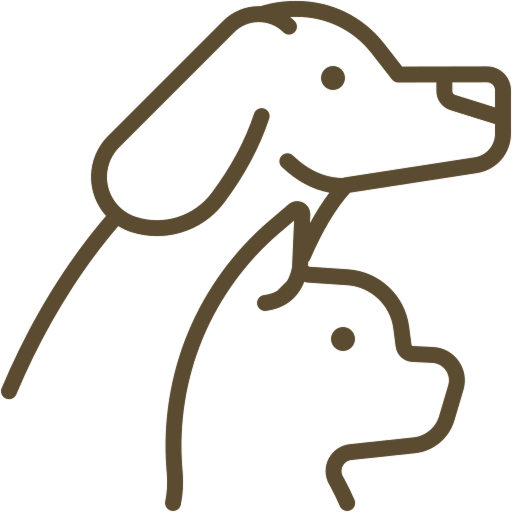
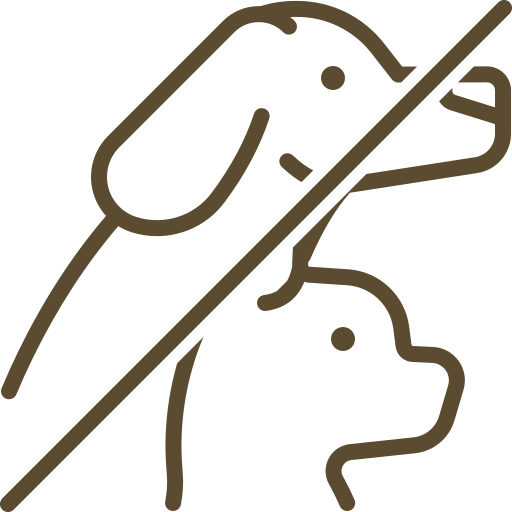
[Add] Свежие изменения от Delta

Changed region(s): [[0.4062, 0.0, 1.0, 0.5938], [0.0, 0.5625, 0.4375, 1.0]]

diff --git a/index.html b/index.html
@@ -166,47 +166,47 @@
 		</div>
 		<div id="services">
 
-			<div class="service" onclick="carousel.show('id')">
+			<div class="service" onclick="carousel.call('id')">
 				<img class="service-img" src="./images/service_icons/room-service.png" alt="Room service">
 				<p class="service-description">Room service</p>
 			</div>
 
-			<div class="service" onclick="carousel.show('service-popup-kitchenette')">
+			<div class="service" onclick="carousel.call('service-popup-kitchenette')">
 				<img class="service-img" src="./images/service_icons/kitchen.png" alt="Kitchen">
 				<p class="service-description">Kitchen</p>
 			</div>
 
-			<div class="service" onclick="carousel.show('service-popup-breakfast')">
+			<div class="service" onclick="carousel.call('service-popup-breakfast')">
 				<img class="service-img" src="./images/service_icons/breakfast.png" alt="Breakfast">
 				<p class="service-description">Breakfast</p>
 			</div>
 
-			<div class="service" onclick="carousel.show('service-popup-reception')">
+			<div class="service" onclick="carousel.call('service-popup-reception')">
 				<img class="service-img" src="./images/service_icons/reception.png" alt="Reception">
 				<p class="service-description">Reception</p>
 			</div>
 
-			<div class="service" onclick="carousel.show('id')">
+			<div class="service" onclick="carousel.call('service-popup-bed')">
 				<img class="service-img" src="./images/service_icons/towel.png" alt="Bed Linen and Hand Towels">
 				<p class="service-description">Bed Linen and Hand Towels</p>
 			</div>
 
-			<div class="service" onclick="carousel.show('id')">
+			<div class="service" onclick="carousel.call('id')">
 				<img class="service-img" src="./images/service_icons/washing-machine.png" alt="Laundrette Facilities">
 				<p class="service-description">Laundrette Facilities</p>
 			</div>
 
-			<div class="service" onclick="carousel.show('id')">
+			<div class="service" onclick="carousel.call('id')">
 				<img class="service-img" src="./images/service_icons/inventory.png" alt="Inventory">
 				<p class="service-description">Inventory</p>
 			</div>
 
-			<div class="service" onclick="carousel.show('id')">
+			<div class="service" onclick="carousel.call('service-popup-internet')">
 				<img class="service-img" src="./images/service_icons/internet.png" alt="Internet">
 				<p class="service-description">Internet</p>
 			</div>
 
-			<div class="service" onclick="carousel.show('id')">
+			<div class="service" onclick="carousel.call('service-popup-pets')">
 				<img class="service-img" src="./images/service_icons/pets.png" alt="Pets">
 				<p class="service-description">Pets</p>
 			</div>
@@ -328,35 +328,46 @@
 			</div>
 		</div>
 	</div>
+	
 
-	<!-- Slider for the service popups -->
 
-	<!-- TODO: write wrapper here. by ckicking on the wrapper, divs below should be removed by display	-->
-	<!-- Complete function ShowCarousel in the service_popups.js -->
 
-	<div class="service-popup" id="service-popup-kitchenette">
-    <div>
-      <p class="service-popup-tittle">Kitchenette</p>
-      <p class="service-popup-text">Every one of our apartments has an open plan Kitchenette fitted.<br>Here you can put your kitchen skills to the test</p>
-    </div>
-  </div>
+	<div id="service-popups-wrapper" onclick="carousel.hide()"></div>
 
-	<div class="service-popup" id="service-popup-breakfast">
-    <div>
-      <p class="service-popup-tittle">Breakfast</p>
-      <p class="service-popup-text">Breakfast will be from 7:00-9:30 am<br>in the hotel and costs 14€ per person</p>
-    </div>
-  </div>
+	<div class="service-popup" id="service-popup-kitchenette" onclick="carousel.call('service-popup-kitchenette')">
+		<p class="service-popup-tittle">Kitchenette</p>
+		<p class="service-popup-text">Every one of our apartments has an open plan Kitchenette fitted.<br>Here you can put your kitchen skills to the test</p>
+	</div>
 
-	<div class="service-popup" id="service-popup-reception">
-    <div class="service-popup-body">
-      <p class="service-popup-tittle">Reception</p>
-			<div class="service-popup-text">
-				<p class="service-popup-body-text">Hotel Reception - Opening Times</p>
-        <p class="service-popup-text">Monday to Sunday from 7:00 to 15:00 h<br>Check-in after reception time is possible by a Check-in-Terminal</p>
-			</div>
-    </div>
-  </div>
+	<div class="service-popup" id="service-popup-breakfast" onclick="carousel.call('service-popup-breakfast')">
+		<p class="service-popup-tittle">Breakfast</p>
+		<p class="service-popup-text">Breakfast will be from 7:00-9:30 am<br>in the hotel and costs 14€ per person</p>
+	</div>
+
+	<div class="service-popup" id="service-popup-reception" onclick="carousel.call('service-popup-reception')">
+		<p class="service-popup-tittle">Reception</p>
+		<div class="service-popup-info-body">
+			<p class="service-popup-subtittle">Hotel Reception - Opening Times</p>
+			<p class="service-popup-text">Monday to Sunday from 7:00 to 15:00 h<br>Check-in after reception time is possible by a Check-in-Terminal</p>
+		</div>
+	</div>
+
+	<div class="service-popup" id="service-popup-bed" onclick="carousel.call('service-popup-bed')">
+		<p class="service-popup-tittle">Bed Linen and Hand Towels</p>
+		<p class="service-popup-text">Of course there are towels and bed linen in your apartment</p>
+	</div>
+
+
+	<div class="service-popup" id="service-popup-internet" onclick="carousel.call('service-popup-internet')">
+		<p class="service-popup-tittle">Internet</p>
+		<p class="service-popup-text">High Speed Wireless LAN for free</p>
+	</div>
+
+	<div class="service-popup" id="service-popup-pets" onclick="carousel.call('service-popup-pets')">
+		<p class="service-popup-tittle">Pets</p>
+		<p class="service-popup-text">No pets allowed</p>
+	</div>
+
 
 	<script src="./animations.js"></script>
 	<script src="./service_popups.js"></script>

diff --git a/service_popups.js b/service_popups.js
@@ -1,55 +1,76 @@
-
-
-function ShowCarousel(name)
-{
-  // .service-popup-center
-  let popup = document.getElementById(name);
-  popup.classList.add("service-popup-center");
-}
-
-
-
-
-
 class Carousel {
-  constructor () {
-    this.popups = document.getElementsByClassName('service-popup')
-    this.popups_len = this.popups.length
-    this.center = null
-    this.left = null
-    this.right = null
-    this.hidden_left = null
-    this.hidden_right = null
-    this.nowId
-    console.log(this.popups)
-  }
+	constructor () {
+		this.popups = document.getElementsByClassName('service-popup')
 
-  next = () => {
-    nowId += 1;
-  }
+		this.popups_list = Array.from(this.popups)
+		for (let i = 0; i < this.popups_list.length; i++){
+			this.popups_list[i] = this.popups_list[i].id
+		}
 
+		this.center = null
+		this.left = null
+		this.right = null
+		this.hidden_left = null
+		this.hidden_right = null
+	}
 
-  prev = () => {
-  
-  }
+	next = () => {
+
+	}
 
 
-  show = (id) => {
-    console.log("Я НЕ СРАБОТАЮ");
-    let popup = document.getElementById(id);
-    if (this.center != null && this.center.classList.contains("service-popup-center")) {
-      this.center.classList.remove("service-popup-center")
-    }
-    popup.classList.add("service-popup-center");
-    this.center = popup
-
-    if (this.right != null && this.right.classList.contains("service-popup-right")) {
-      this.right.classList.remove("service-popup-right")
-    }
-    this.popups[center_index+1]
+	prev = () => {
+	
+	}
 
 
-  }
+	call = (id) => {
+		console.log('CALLED')
+		//service-popup-center
+		let called_popup = document.getElementById(id); // getting called_popup
+		let called_popup_index = this.popups_list.indexOf(called_popup.id); // getting called_popup index in popups_list
+
+
+		if (this.center != null) {
+			this.popups[this.center].classList.remove('service-popup-center')
+			this.popups[this.left].classList.remove('service-popup-left')
+			this.popups[this.right].classList.remove('service-popup-right')
+		}
+
+		this.center = called_popup_index
+		this.popups[this.center].classList.add('service-popup-center')
+
+		if (called_popup_index == 0) {
+			this.left = this.popups.length - 1
+		}
+		else { this.left = called_popup_index - 1 }
+		this.popups[this.left].classList.add('service-popup-left')
+
+		if (called_popup_index == this.popups.length - 1) {
+			this.right = 0
+		}
+		else { this.right = called_popup_index + 1 }
+		this.popups[this.right].classList.add('service-popup-right')
+
+		document.getElementById('service-popups-wrapper').style.display = 'flex';
+
+	}
+
+	hide = () => {
+		this.popups[this.left].classList.remove('service-popup-left')
+		this.popups[this.center].classList.remove('service-popup-center')
+		this.popups[this.right].classList.remove('service-popup-right')
+		document.getElementById('service-popups-wrapper').style.display = 'none';
+
+
+
+		this.center = null
+		this.left = null
+		this.right = null
+		this.hidden_left = null
+		this.hidden_right = null
+		this.nowId = null
+	}
 
 }
 

diff --git a/service_popups.css b/service_popups.css
@@ -9,56 +9,59 @@
 }
 
 
-.service-popup{
-  background: var(--secondary-background-darker);
-	display: none; /* inline block */
-	justify-content: center;
-	flex-direction: column;
-	gap: 30px;
-	padding: 40px 60px;
-}
-
-.service-popup-tittle{
-  font-family: var(--font-family);
-  font-weight: 700;
-  font-size: 44px;
-  color: var(--white);
-}
-
-.service-popup-text{
-	font-family: var(--font-family);
-	font-weight: 400;
-	font-size: 20px;
-	color: var(--white);
-}
-
-.service-popup-body{
+.service-popup {
 	display: flex;
 	align-items: flex-start;
 	justify-content: flex-start;
 	flex-direction: column;
 	gap: 12px;
+	padding: 40px 60px;
+	background: var(--secondary-background-darker);
+	display: none;
 }
 
-.service-popup-body-text{
+.service-popup-tittle {
+	font-family: var(--font-family);
+	font-weight: 700;
+	font-size: 4.4rem;
+	color: var(--white);
+}
+
+
+.service-popup-subtittle {
+	font-family: var(--font-family);
+	font-weight: 600;
+	font-size: 3.0rem;
+	color: var(--white);
+}
+
+
+.service-popup-text {
+	font-family: var(--font-family);
+	font-weight: 400;
+	font-size: 2.0rem;
+	color: var(--white);
+	line-height: 120%;
+}
+
+.service-popup-info-body {
 	display: flex;
 	align-items: flex-start;
 	justify-content: flex-start;
 	flex-direction: column;
 	gap: 6px;
-
-	font-family: var(--font-family);
-	font-weight: 600;
-	font-size: 30px;
-	color: var(--white);
 }
 
 
-.service-popup-center{
+
+
+
+
+
+
+.service-popup-center {
 	display: flex;
-	align-items: center;
-	justify-content: flex-start;
-	flex-direction: column;
+
 	position: fixed;
 	top: 50%;
 	left: 50%;
@@ -66,18 +69,45 @@
 	cursor: default;
 }
 
-.service-popup-left{
+.service-popup-left {
+	display: flex;
+
+	position: fixed;
+	top: 50%;
+	left: 20%;
+	transform: translate(-100%, -50%);
+	cursor: pointer;
+	filter: blur(4px);
+}
+
+.service-popup-right {
+	display: flex;
+
+	position: fixed;
+	top: 50%;
+	left: 80%;
+	transform: translate(-0%, -50%);
+	cursor: pointer;
+	filter: blur(4px);
+}
+
+.service-popup-left-hidden {
 
 }
 
-.service-popup-right{
+.service-popup-right-hidden {
 
 }
 
-.service-popup-left-hidden{
 
-}
-
-.service-popup-right-hidden{
-
+#service-popups-wrapper {
+	background: rgba(30, 30, 30, .1);
+	backdrop-filter: blur(10px);
+	position: fixed;
+	top: 0;
+	left: 0;
+	width: -webkit-fill-available;
+	height: -webkit-fill-available;
+	cursor: pointer;
+	display: none;
 }
